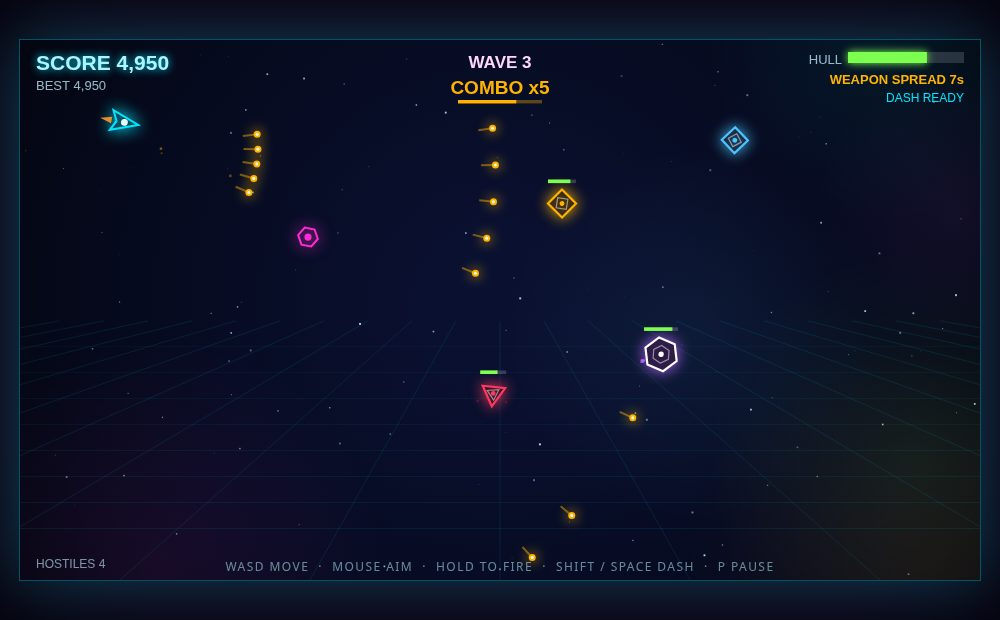
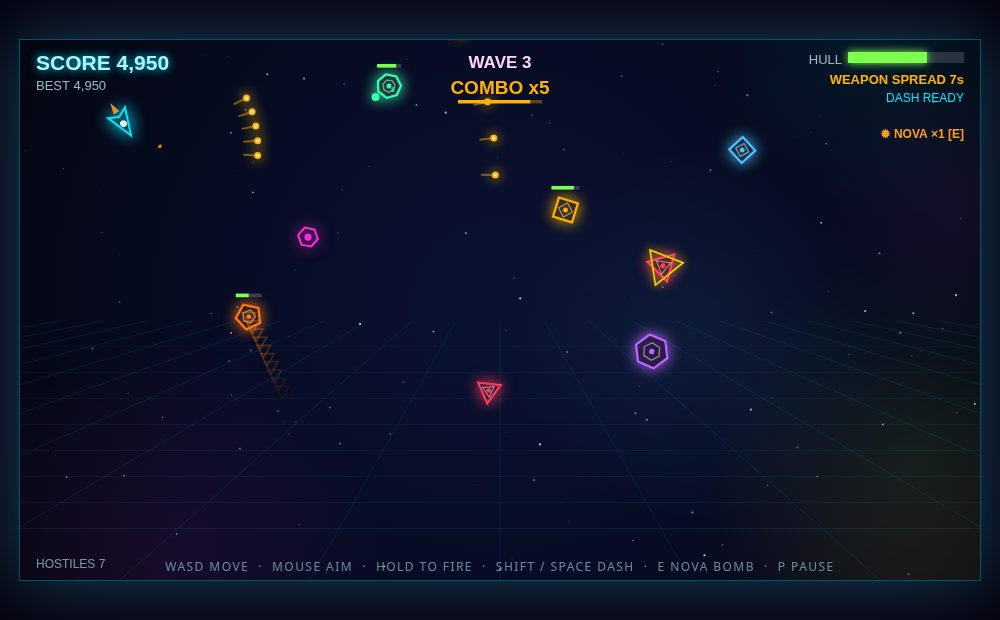
v11 polish: screenshot set rebuilt to show the current game (upgrade draft screen replaces game-over, enraged Warden + NOVA blast in the boss shot, guaranteed golden elite + charger + orbiter in the action shot), elite kills get hit-stop feedback

diff --git a/game/index.html b/game/index.html
@@ -368,6 +368,7 @@ function killEnemy(e, idx) {
   } else {
     G.shake = Math.max(G.shake, 3.5);
   }
+  if (e.elite) G.hitstop = Math.max(G.hitstop, 0.05);
   sfx.boom();
   if (e.type === 'splitter') {
     for (let i = 0; i < 2; i++) spawnEnemy('mini', e.x + rnd(-14, 14), e.y + rnd(-14, 14));
@@ -1153,6 +1154,11 @@ function shotScene() {
     spawnEnemy('chaser', W * 0.2, H * 0.24);
     spawnEnemy('sniper', W * 0.86, H * 0.16);
     spawnEnemy('mini', W * 0.55, H * 0.4);
+    spawnEnemy('charger', W * 0.3, H * 0.84);
+    spawnEnemy('orbiter', W * 0.56, H * 0.18);
+    spawnEnemy('chaser', W * 0.8, H * 0.44);
+    const eliteRef = enemies[enemies.length - 1];
+    if (!eliteRef.elite) { eliteRef.elite = true; eliteRef.hp = eliteRef.maxhp = Math.ceil(eliteRef.hp * 3); eliteRef.r += 3; eliteRef.score *= 3; }
     pickups.push({ x: W * 0.3, y: H * 0.36, kind: 'weapon', weapon: 'rapid', r: 10, t: 1, life: 10 });
     // scripted combat: aim at the nearest foe and fire while strafing
     for (let i = 0; i < 110; i++) {
@@ -1174,12 +1180,14 @@ function shotScene() {
     player.x = W * 0.34; player.y = H * 0.64;
     spawnEnemy('warden', W * 0.64, H * 0.32);
     const wd = enemies[enemies.length - 1];
-    wd.hp = 52; wd.warp = 0; wd.burstCd = 1.0; wd.fireCd = 0.5;
+    wd.hp = 30; wd.warp = 0; wd.burstCd = 1.0; wd.fireCd = 0.5; // below the 35% enrage line
     spawnEnemy('mini', W * 0.8, H * 0.62);
     spawnEnemy('spinner', W * 0.16, H * 0.2);
     enemies.forEach((e) => { e.warp = 0; });
     pickups.push({ x: W * 0.5, y: H * 0.82, kind: 'health', r: 10, t: 1, life: 10 });
     for (let i = 0; i < 120; i++) {
+      if (i === 60) wd.hp = Math.max(wd.hp, 24); // keep the enraged Warden alive for the shot
+      if (i === 110) detonate(); // NOVA blast: clears the bullet rings, big shockwave in frame
       mouse.x = wd.x; mouse.y = wd.y;
       mouse.down = i % 4 !== 0;
       keys['KeyD'] = i % 40 < 20; keys['KeyA'] = i % 40 >= 20;
